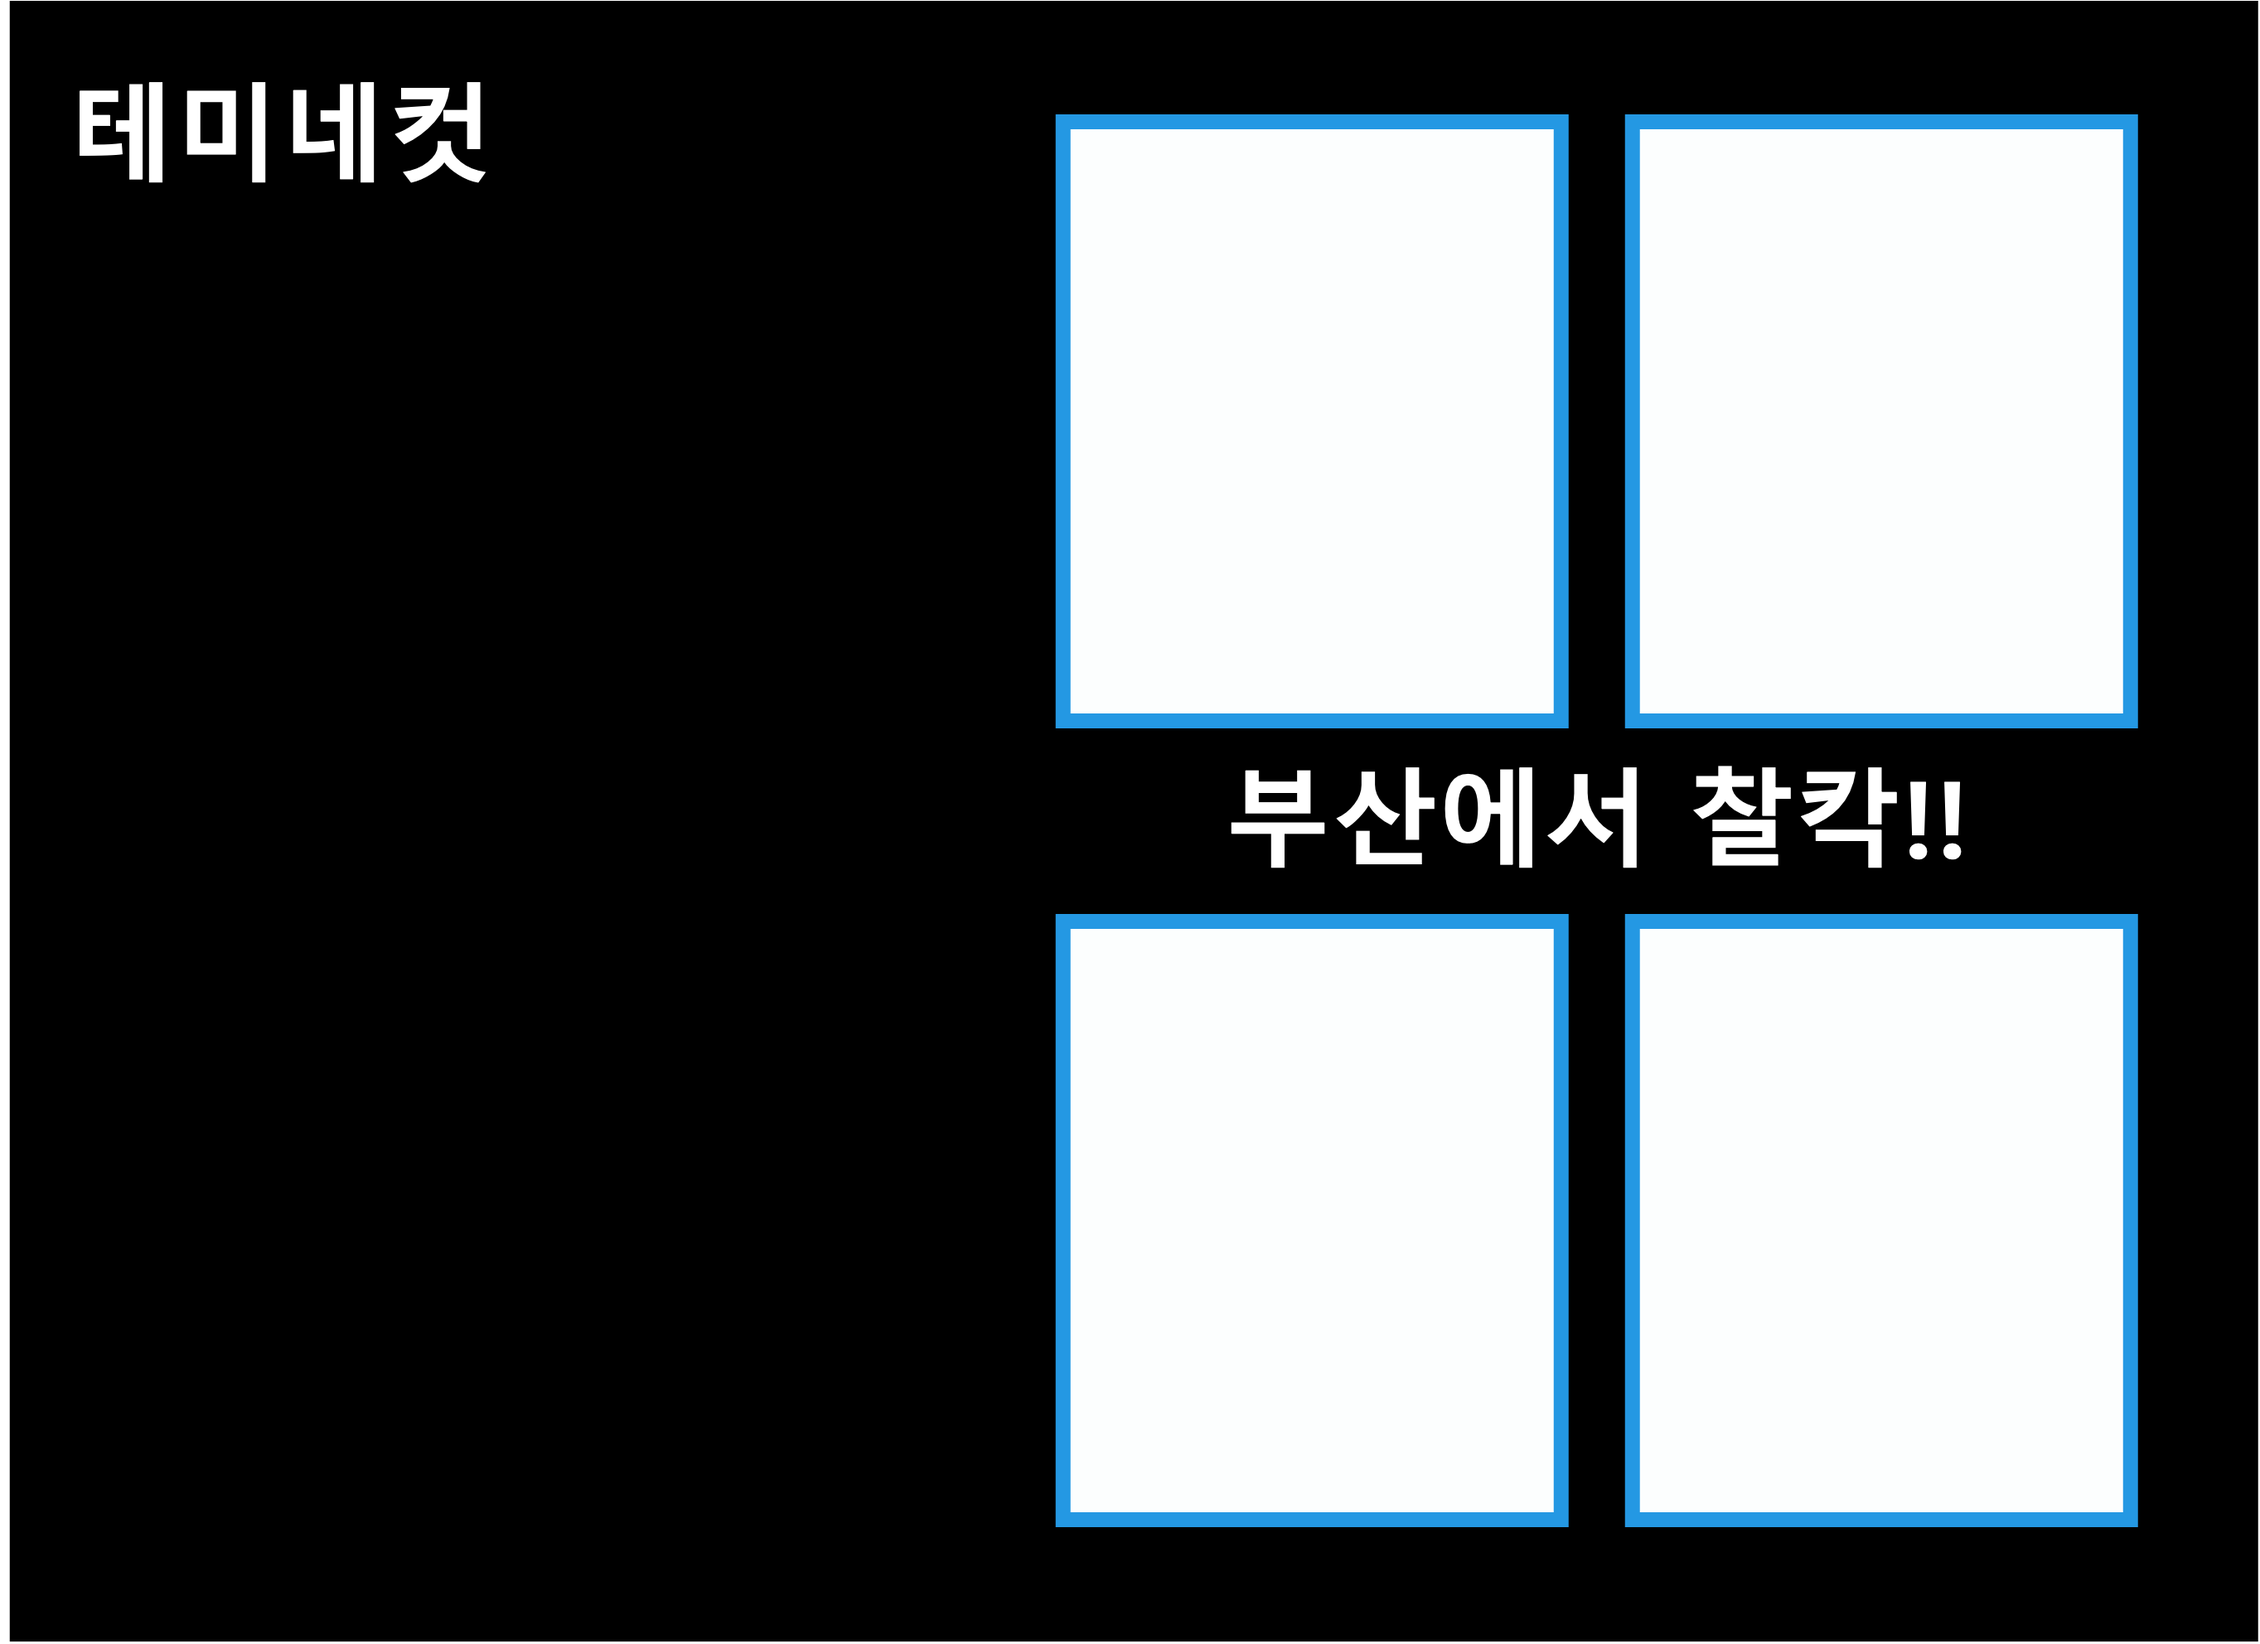
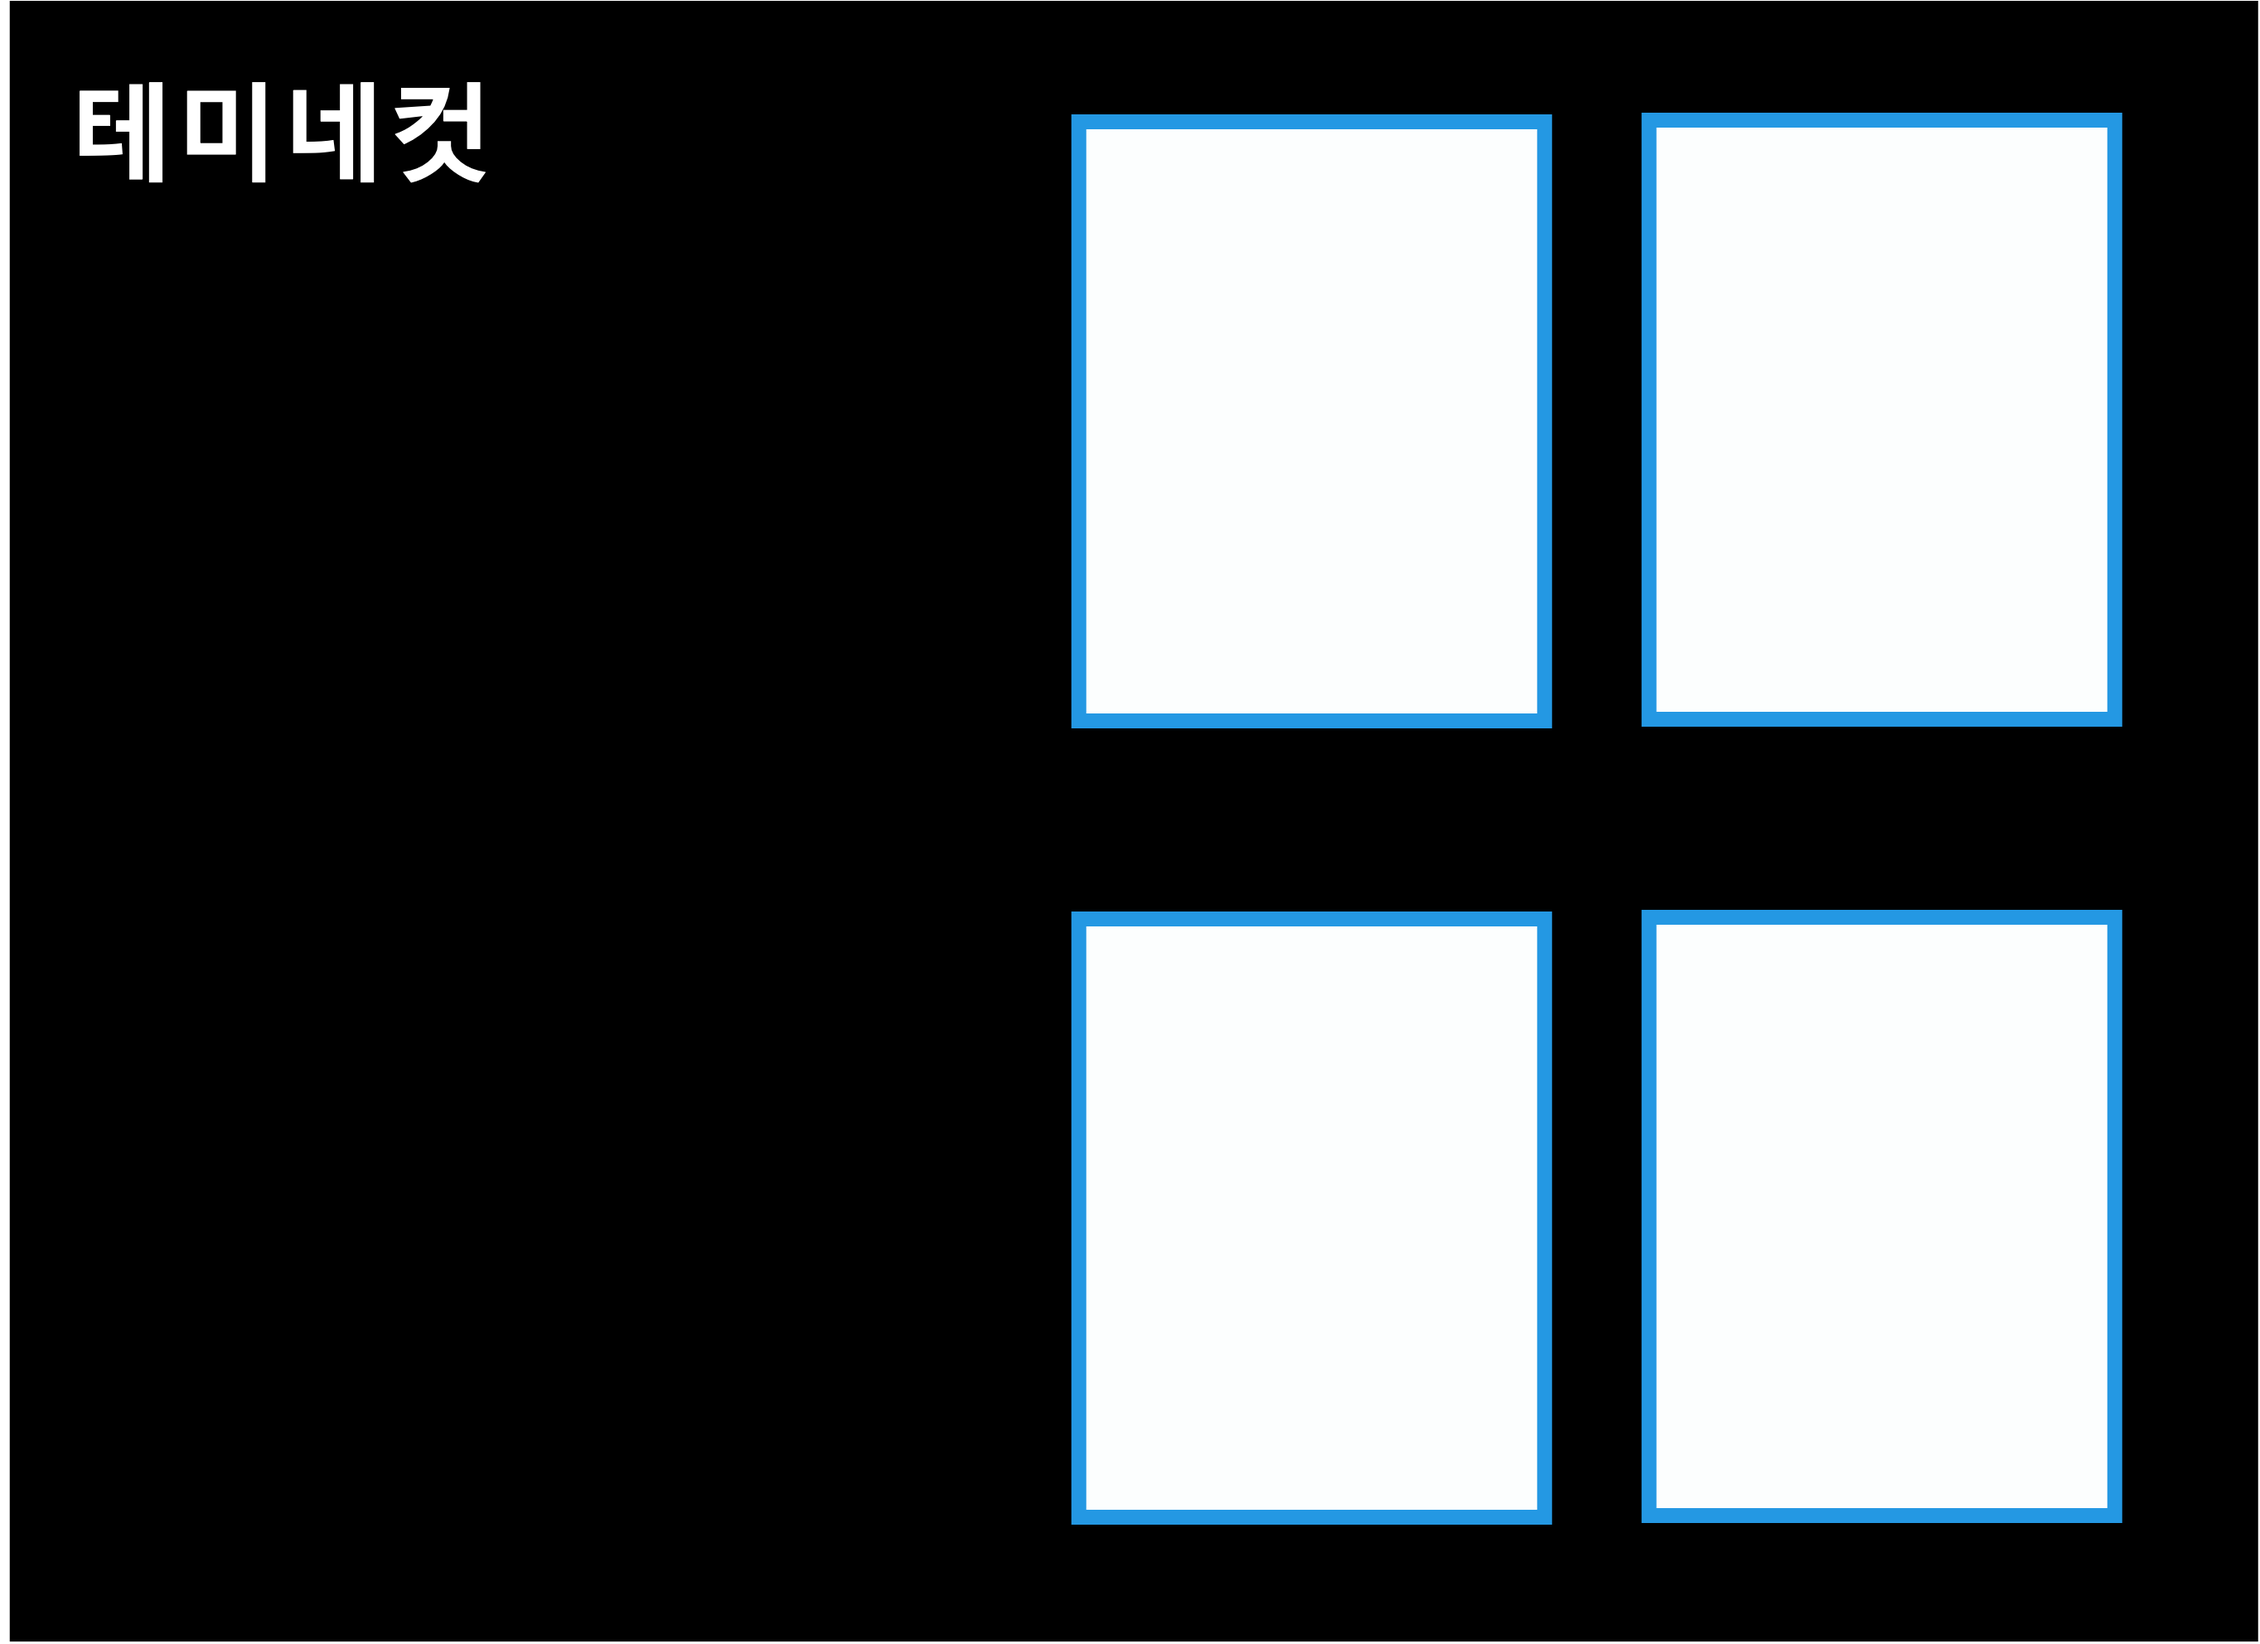
[feat] 테미네컷 비율 수정

diff --git a/src/pages/PhotoBooth.jsx b/src/pages/PhotoBooth.jsx
@@ -63,10 +63,10 @@ const PhotoBooth = () => {
       const ratioY = frameHeight / origH;
 
       const basePositions = [
-        { x: 832, y: 97, w: 320, h: 400 },
-        { x: 1214, y: 97, w: 320, h: 400 },
-        { x: 832, y: 655, w: 320, h: 400 },
-        { x: 1214, y: 650, w: 320, h: 400 },
+        { x: 784, y: 97, w: 330, h: 400 },
+        { x: 1195, y: 97, w: 330, h: 400 },
+        { x: 784, y: 655, w: 330, h: 400 },
+        { x: 1195, y: 650, w: 330, h: 400 },
       ];
 
       const positions = basePositions.map((p) => ({
